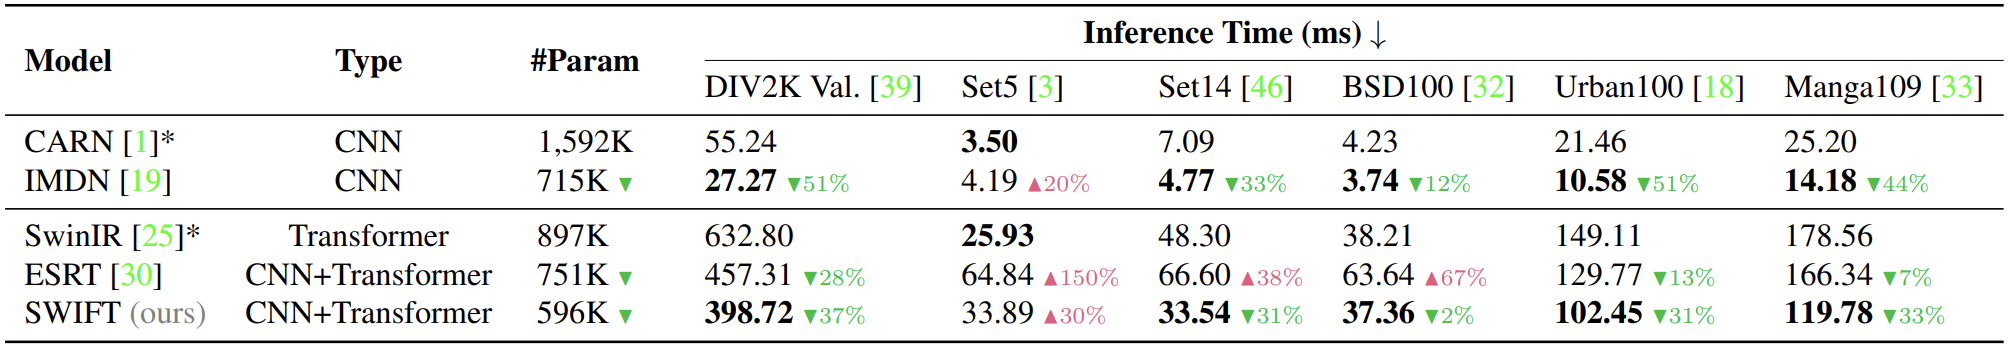
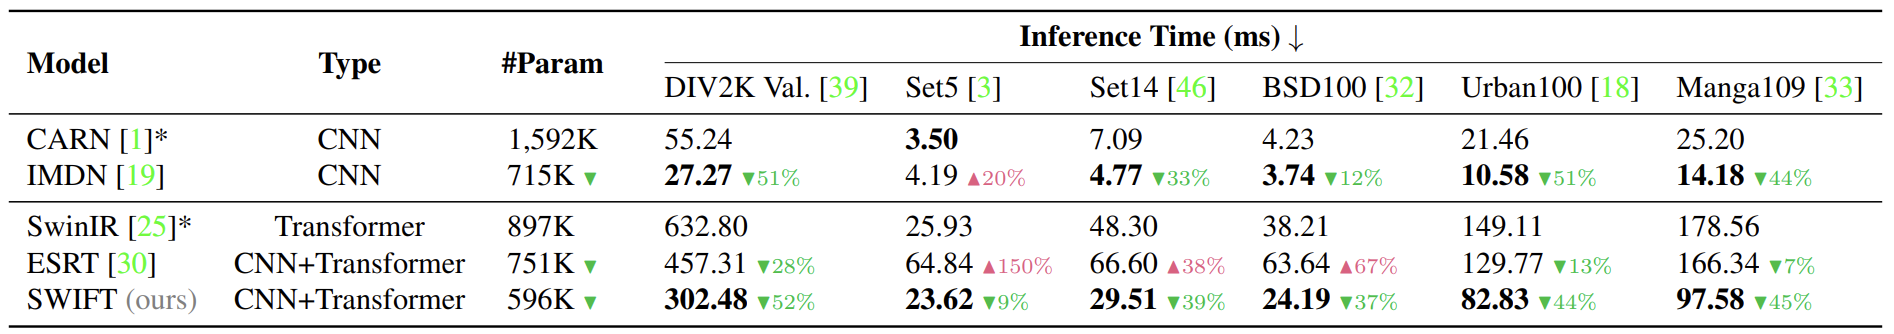
Update README.md

diff --git a/README.md b/README.md
@@ -13,26 +13,7 @@ This repository contains the official implementation for the paper titled _"Towa
 </p>
 
 <p align="justify">
-<i>Lightweight Single Image Super Resolution in recent times has seen lot of advances. Transformer based methods have achieved great improvements over CNN-based methods. This is mainly driven by transformer's ability to effectively model long-range dependencies in images. However, transformer based approaches have lot of parameters and are computationally expensive during inference. In this work, we propose SWIFT, a hybrid of Swin transformers and Fast Fourier Convolutions (FFC). SWIFT consists of three stages: shallow feature extraction, deep feature extraction and high-quality image reconstruction. Deep feature extraction consists of SwinV2 transformer blocks extended with Attention Scaling and our novel Residual Frequency Blocks (RFB) to effectively extract high frequency details and model long-range dependencies. Experimental results on popular benchmarking datasets shows that SWIFT outperforms state-of-the-art methods like SwinIR in the realm of lightweight SISR while using 33.55% less parameters and being 37% faster during inference.</i>
-</p>
-
-## Results
-
-### Quantitative Comparisons
-
-The table below shows the quantitative comparisons of SWIFT with other state-of-the-art methods on Lightweight Image Super Resolution on popular benchmarking datasets. We compare models based on the scores achieved in PSNR and SSIM metrics. The first and second best methods have been highlighted with <span style="color:red">red</span> and <span style="color:blue">blue</span> respectively.
-
-<p float="left" align="center" padding="100px">
-  <img src="./doc/images/SWIFT-Results.png" width=100%/>
-</p>
-
-### Comparison on Inference Time
-
-The table below shows the comparison of inference time of state-of-the-art methods on benchmarking datasets for ×4 scale. The <span style="color:green">▼</span> symbol indicates improvement and <span style="color:red">▲</span> symbol indicates deterioration of inference time compared to the reference model. The reference model used for
-comparisons for different model architecture types is indicated by \* (asterisks).
-
-<p float="left" align="center" padding="100px">
-  <img src="./doc/images/SWIFT-Inference.png" width=100%/>
+<i>Lightweight Single Image Super Resolution in recent times has seen lot of advances. Transformer based methods have achieved great improvements over CNN-based methods. This is mainly driven by transformer's ability to effectively model long-range dependencies in images. However, transformer based approaches have lot of parameters and are computationally expensive during inference. In this work, we propose SWIFT, a hybrid of Swin transformers and Fast Fourier Convolutions (FFC). SWIFT consists of three stages: shallow feature extraction, deep feature extraction and high-quality image reconstruction. Deep feature extraction consists of SwinV2 transformer blocks extended with Attention Scaling and our novel Residual Frequency Blocks (RFB) to effectively extract high frequency details and model long-range dependencies. Experimental results on popular benchmarking datasets shows that SWIFT outperforms state-of-the-art methods like SwinIR in the realm of lightweight SISR while using 33.55% less parameters and being upto 52% faster during inference.</i>
 </p>
 
 ## Training
@@ -117,10 +98,6 @@ SWIFT uses tensorboard for storing all training metrics and predictions on image
 tensorboard --logdir=runs --bind_all
 ```
 
-<!-- ```bash
-conda activate pytorch && python3 train.py --scale=3 --patch_size=192 --batch_size=64 --lr=2e-4 --n_epochs=60000 --root="/home/vishalramesh01/Datasets/" --cuda --model="-SwinV2-HiFB6-DIV2K-BS64-LWx3-700k" --seed=3407 --ckpt_dir="/home/vishalramesh01/ESRT/experiment/" --n_train=800 --log_every=100 --test_every=1000 --save_every=2000 --amp --load_mem
-```-->
-
 We use a single NVIDIA TESLA A100 GPU for training the models.
 
 ## Testing
@@ -142,14 +119,13 @@ Other options provided by the `test.py` are shown below
 
 ```console
 $ python3 test.py --help
-usage: test.py [-h] --scale int --patch_size int --model_path str [--batch_size int] [--cuda] [--jit] [--forward_chop] [--seed int] [--summary]
+usage: test.py [-h] --scale int --model_path str [--batch_size int] [--cuda] [--jit] [--forward_chop] [--seed int] [--summary]
 
 Towards Faster and Efficient Lightweight Image Super Resolution using Swin Transformers and Fourier Convolutions
 
 options:
   -h, --help        show this help message and exit
   --scale int       Super resolution scale. Scales: 2, 3, 4.
-  --patch_size int  Patch size used for training SWIFT for the scale chosen. Patch Sizes: 128, 192, 256.
   --model_path str  Path to the trained SWIFT model.
   --batch_size int  Batch size to use for testing. Default=1.
   --cuda            Use CUDA enabled device to perform testing.
@@ -209,6 +185,65 @@ options:
   --forward_chop      Use forward_chop for performing inference on devices with less memory.
   --summary           Print summary table for model.
 ```
+
+## Docker
+
+If you want to test out SWIFT, we provide a docker image that comes with all the dependencies pre-installed. The image can be run on both CPU and CUDA enbaled GPU. To run on GPU, please refer to the [installation guide](https://docs.nvidia.com/datacenter/cloud-native/container-toolkit/install-guide.html).
+
+### To build image from scratch
+
+Use the following command to build docker image from scratch
+
+```bash
+docker build -t swift:0.1 -f docker/swift.dockerfile .
+```
+
+### To run SWIFT in docker container
+
+To run the docker container on CPU, type the following command in terminal
+
+```bash
+docker run --rm -it swift:0.1 bash
+```
+
+To run the docker container on GPU, type the following command in terminal
+
+```bash
+docker run --rm --gpus all -it swift:0.1 bash
+```
+
+## SWIFT Inference using TorchServe
+
+We provide a easy to use SWIFT inference using TorchServe. Refer to `serve/README.md` to install and use TorchServe.
+
+Currently under development.
+
+## Results
+
+### Qualitative Comparisons
+
+The figure below shows the qualitative comparisons of SWIFT and other state-of-the-art methods on a small patch highlighted by the red rectangle.
+
+<p float="left" align="center" padding="100px">
+  <img src="./doc/images/SWIFT-Qualitative.png" width=100%/>
+</p>
+
+### Quantitative Comparisons
+
+The table below shows the quantitative comparisons of SWIFT with other state-of-the-art methods on Lightweight Image Super Resolution on popular benchmarking datasets. We compare models based on the scores achieved in PSNR and SSIM metrics. The first and second best methods have been highlighted with <span style="color:red">red</span> and <span style="color:blue">blue</span> respectively.
+
+<p float="left" align="center" padding="100px">
+  <img src="./doc/images/SWIFT-Results.png" width=100%/>
+</p>
+
+### Comparison on Inference Time
+
+The table below shows the comparison of inference time of state-of-the-art methods on benchmarking datasets for ×4 scale. The <span style="color:green">▼</span> symbol indicates improvement and <span style="color:red">▲</span> symbol indicates deterioration of inference time compared to the reference model. The reference model used for
+comparisons for different model architecture types is indicated by \* (asterisks).
+
+<p float="left" align="center" padding="100px">
+  <img src="./doc/images/SWIFT-Inference.png" width=100%/>
+</p>
 
 ## Citation
 

diff --git a/serve/README.md b/serve/README.md
@@ -11,13 +11,16 @@ _Note that all the below steps needs to be executed from the project's root dire
 Using python-pip,
 
 ```bash
-pip install torchserve torch-model-archiver torch-workflow-archiver
+pip install torchserve torch-model-archiver torch-workflow-archiver nvgpu
 ```
 
 Using conda,
 
 ```bash
 conda install -c pytorch torchserve torch-model-archiver torch-workflow-archiver
+
+# (optional) If you have GPU, install nvgpu using pip
+pip install nvgpu
 ```
 
 2. Creating `swift.mar` file
